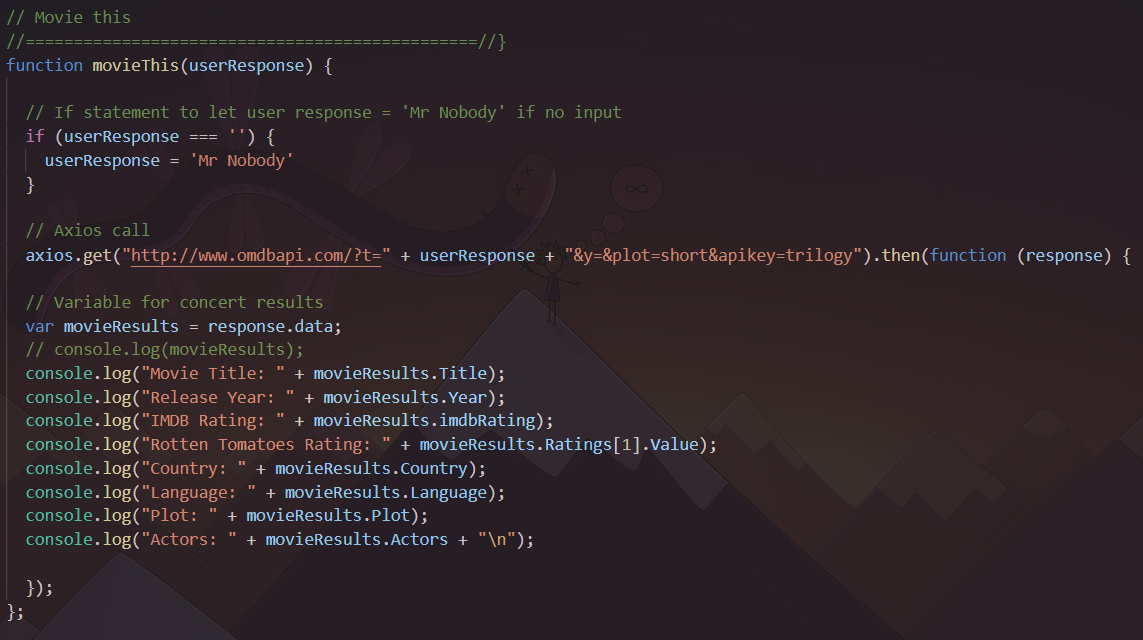
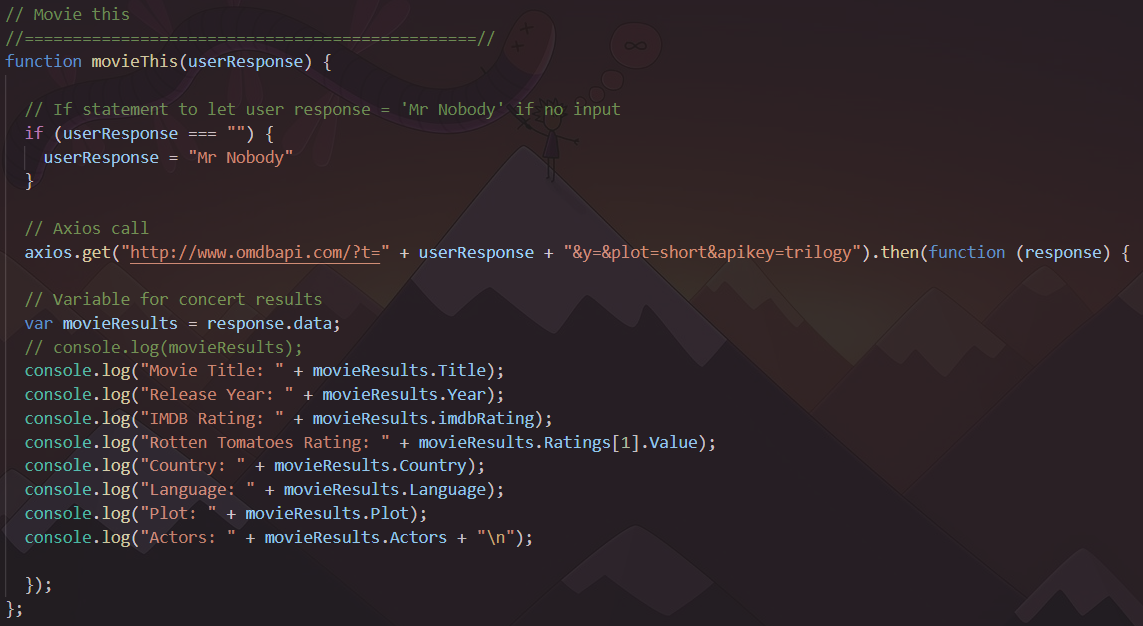
Modified screenshots

diff --git a/liri.js b/liri.js
@@ -5,7 +5,7 @@ require("dotenv").config();
 //===============================================//
 var keys = require("./keys.js");
 var fs = require("fs");
-var Spotify = require('node-spotify-api');
+var Spotify = require("node-spotify-api");
 var spotify = new Spotify(keys.spotify);
 var axios = require("axios");
 var inquirer = require("inquirer");
@@ -26,7 +26,7 @@ begin(command, userResponse);
 
 function begin(command, userResponse){
 	  switch(command){
-	  case 'concert-this':
+	  case "concert-this":
       concertThis(userResponse);
 	  break;
 
@@ -54,8 +54,8 @@ function begin(command, userResponse){
 function concertThis(userResponse) {
 
   // If statement to let user response = 'Beck' if no input
-  if (userResponse === '') {
-    userResponse = 'Beck'
+  if (userResponse === "") {
+    userResponse = "Beck"
   }
 
   // Axios call
@@ -66,7 +66,7 @@ function concertThis(userResponse) {
     // console.log(concertResults);
 
     // Variable for moment
-    var time = moment(concertResults.datetime).format('MM/DD/YYYY')
+    var time = moment(concertResults.datetime).format("MM/DD/YYYY")
 
     console.log("\nVenue Name: " + concertResults.venue.name + "\nVenue Location: " + concertResults.venue.city + "\nDate of Event: " + time);
 
@@ -80,8 +80,8 @@ function concertThis(userResponse) {
 function spotifyThis(userResponse) {
 
   // If statement to let user response = 'The Sign' if no input
-  if (userResponse === '') {
-    userResponse = 'The Sign Ace of Base'
+  if (userResponse === "") {
+    userResponse = "The Sign Ace of Base"
   }
  
   spotify.search({ type: 'track', query: userResponse}, function(err, data) {
@@ -103,12 +103,12 @@ function spotifyThis(userResponse) {
 
 
 // Movie this
-//===============================================//}
+//===============================================//
 function movieThis(userResponse) {
 
   // If statement to let user response = 'Mr Nobody' if no input
-  if (userResponse === '') {
-    userResponse = 'Mr Nobody'
+  if (userResponse === "") {
+    userResponse = "Mr Nobody"
   }
 
   // Axios call

diff --git a/README.md b/README.md
@@ -18,7 +18,7 @@ LIRI will search Spotify for songs, Bands in Town for concerts, and OMDB for mov
    
 ## Screenshots
 
-### Switch Statements
+### Process Arguments and Switch Statements
 ![switch statements screenshot](/images/switch.PNG)
 
 ### spotify-this-song
